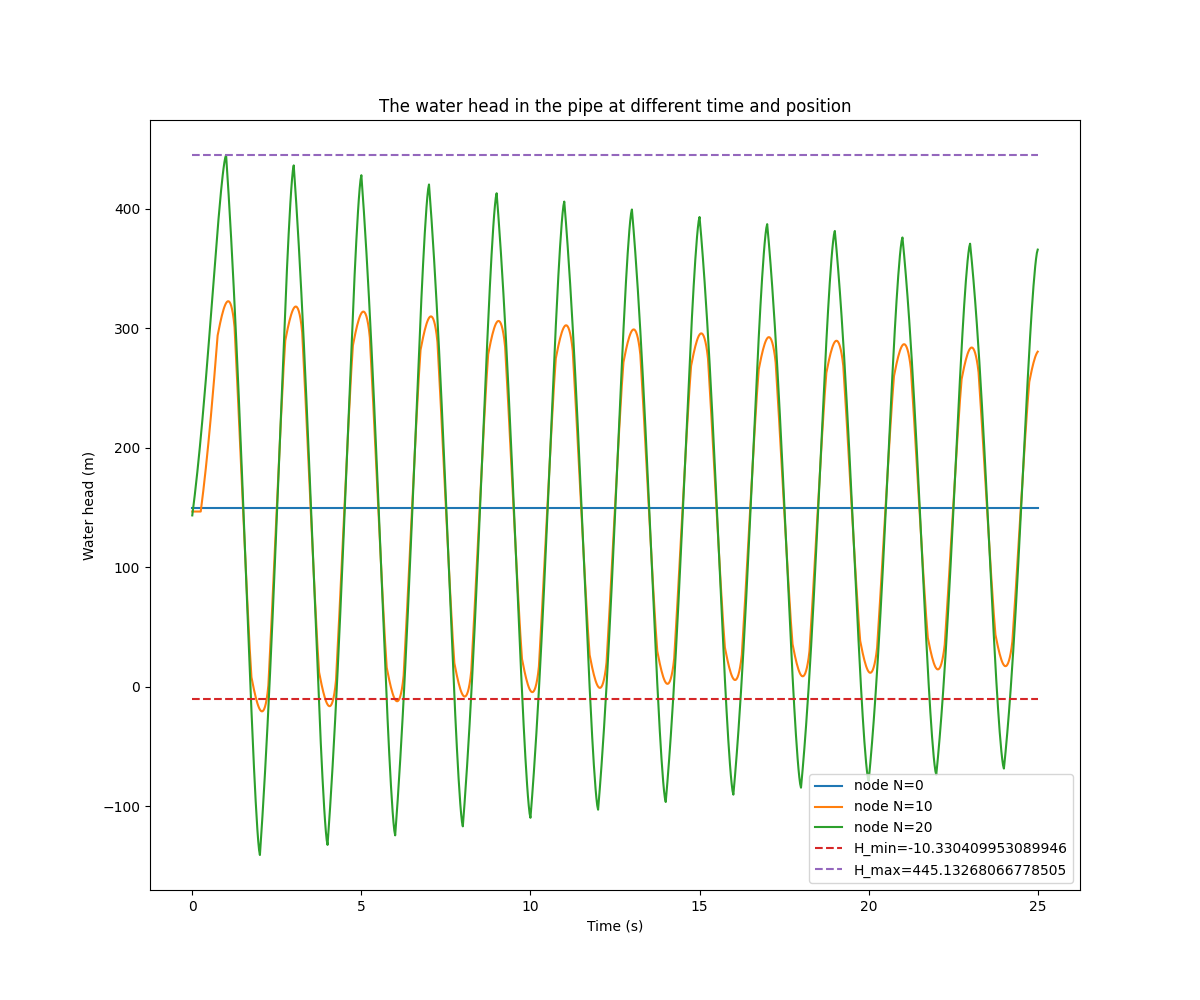
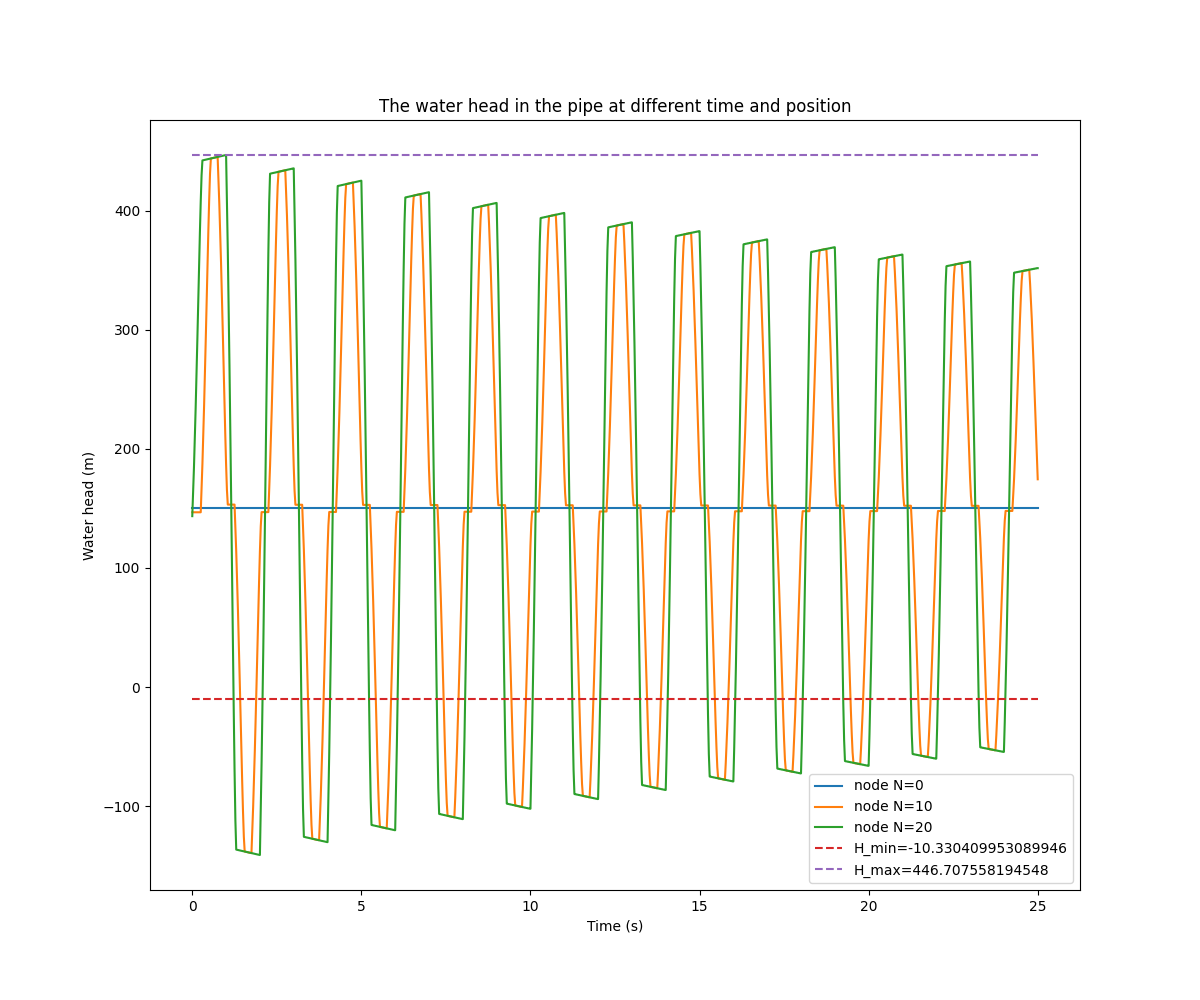
自主

diff --git a/自主研究探索课程（1）/Project/Code/MOC_open.py b/自主研究探索课程（1）/Project/Code/MOC_open.py
@@ -2,7 +2,7 @@ import numpy as np
 import matplotlib.pyplot as plt
 
 H_R = 150
-Q_0 =0.4774321
+Q_0 = 0.4774321
 H_0 = 143.48828
 #Question1计算结果
 L = 600
@@ -12,7 +12,7 @@ f = 0.018
 # k is a coefficient
 k = 0.009
 g = 9.806
-t_c = 0.5
+t_c = 0.3
 E_m = 1.5
 rho = 1000
 # The minimum water head at which the water will vaporize
@@ -28,7 +28,7 @@ N_t = int(T/dt)
 # initialize the Q, H and E, E is the volumn of the cavity, axis 0 is time, axis 1 is the position
 init = np.zeros(N+1)
 Q = np.zeros((N_t+1,N+1))
-H = np.zeros((N_t+1,N+1)) + H_R
+H = np.zeros((N_t+1,N+1))
 E = np.zeros((N_t+1,N+1))
 # initialize the H by linear interpolation
 for i in range(N+1):

diff --git a/自主研究探索课程（1）/Project/Code/MOC.py b/自主研究探索课程（1）/Project/Code/MOC.py
@@ -12,7 +12,7 @@ f = 0.018
 # k is a coefficient
 k = 0.009
 g = 9.806
-t_c = 1.0
+t_c = 0.3
 E_m = 1.5
 rho = 1000
 # The minimum water head at which the water will vaporize
